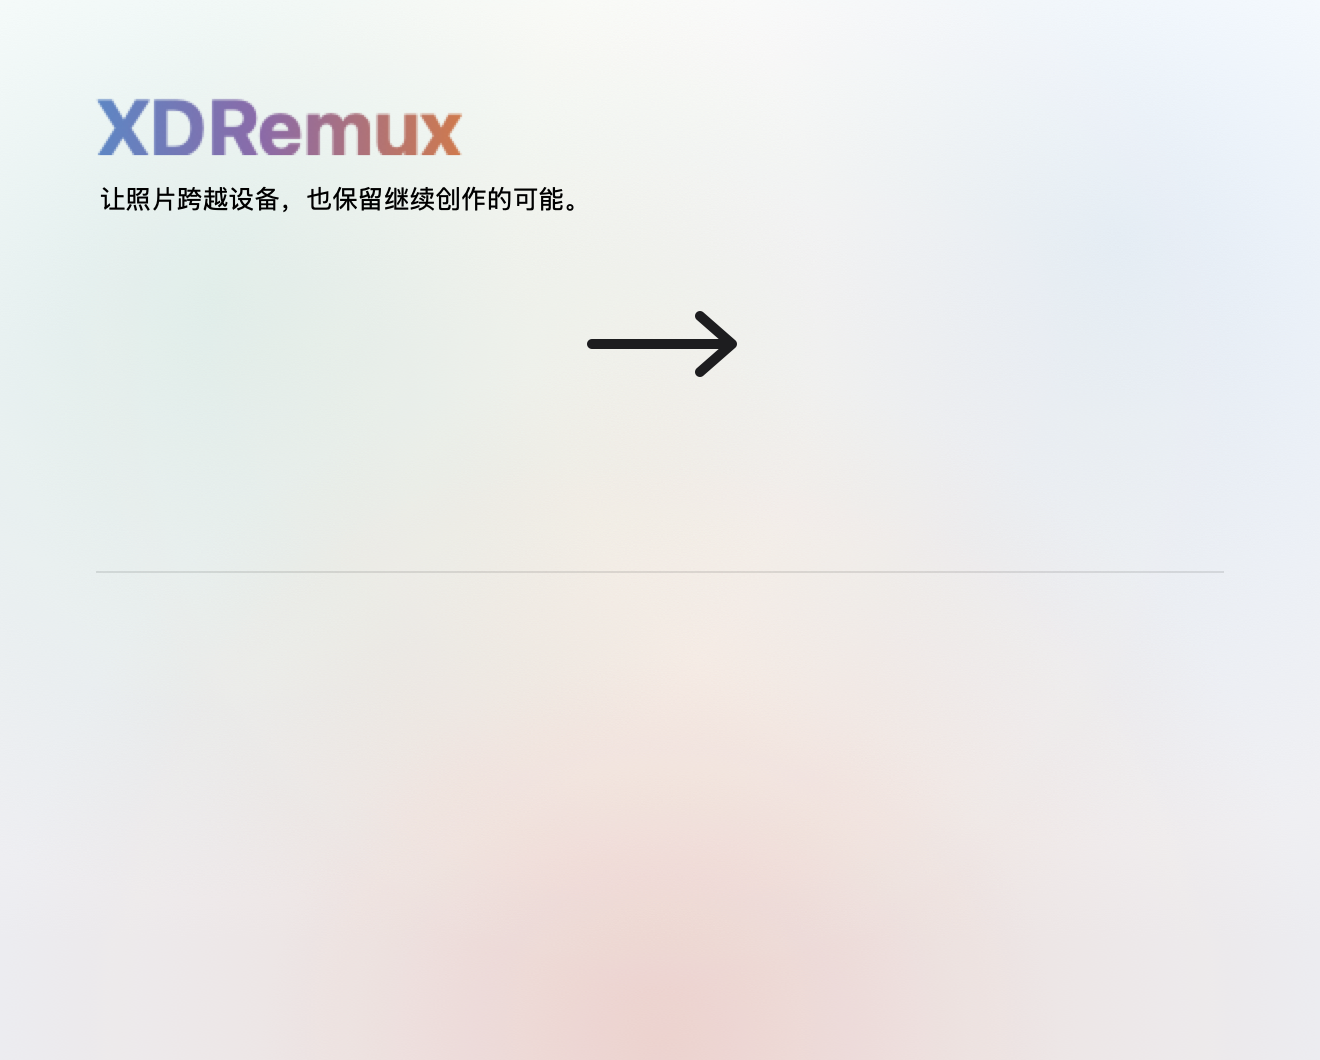
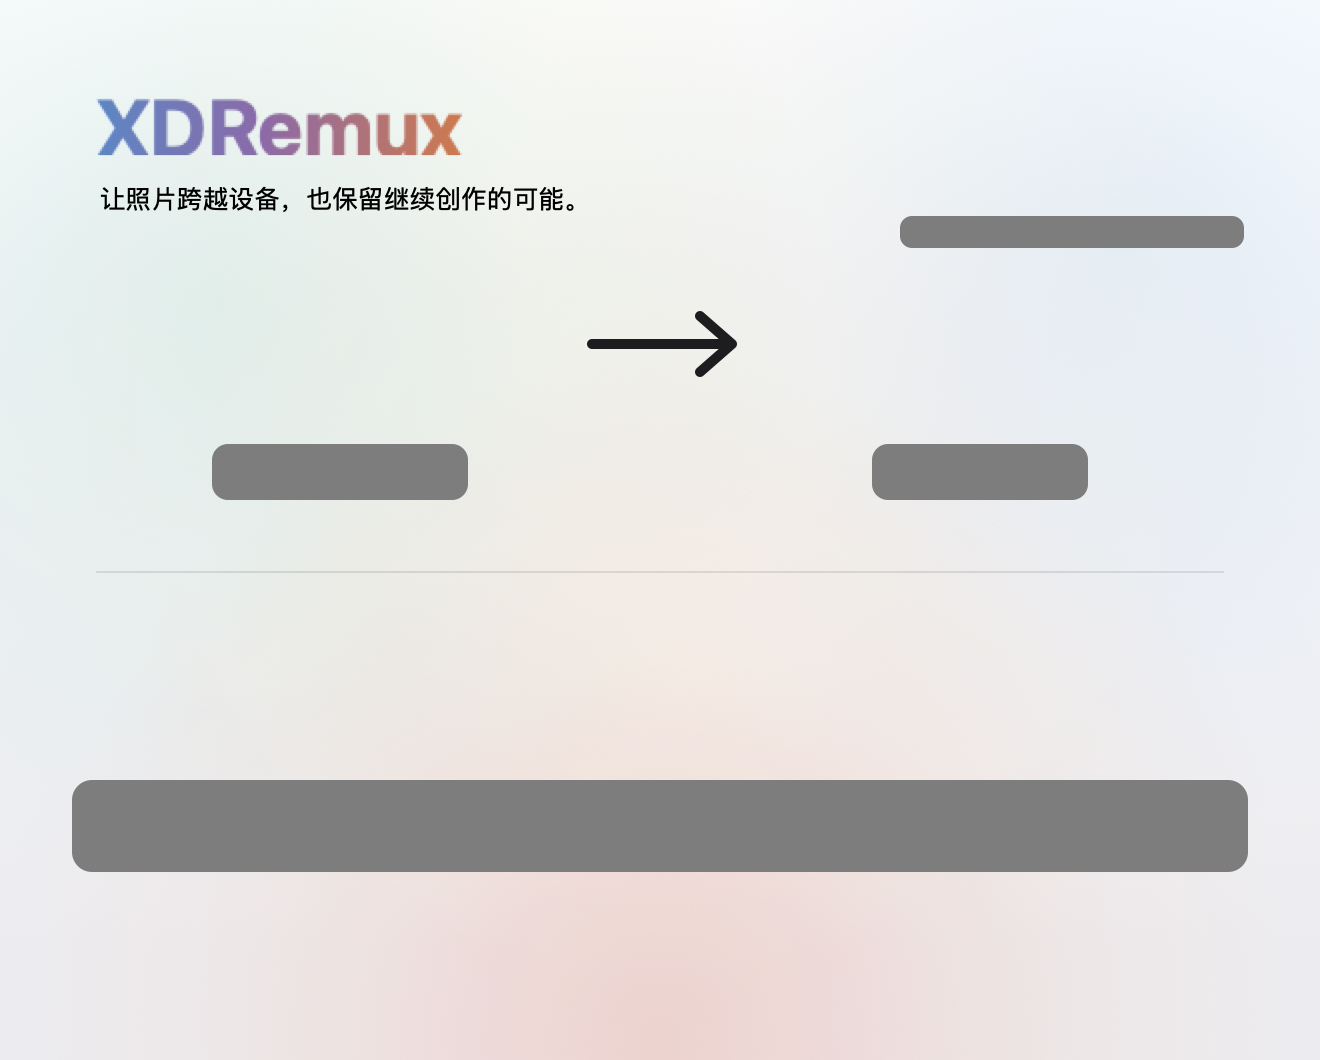
fix(macos): keep DMG labels readable and fail closed on layout
Icon decoration no longer aborts the packager under set -e, so a missing
custom icon warns and the build continues. Mid-gray mats behind Finder
labels keep names readable in dark appearance, bottom-row text is 12pt,
and package_release.sh uses XDREMUX_DMG_STRICT=1 like CI.

diff --git a/tools/apple/dmg/gen_background.swift b/tools/apple/dmg/gen_background.swift
@@ -10,9 +10,14 @@
 // drag arrow between the app icon and the Applications link, and a hairline
 // above the row of smaller items (licence files, privacy shortcut).
 //
-// Deliberately light, not the site's black: Finder draws icon labels in the
-// system appearance's colour, which is near-black in light mode and would
-// vanish on a dark picture.
+// The canvas stays light. Finder icon labels do not: they follow the system
+// appearance (near-black in light mode, near-white in dark mode), so a light
+// picture washes the names out in dark mode and a dark picture does the same
+// in light mode. Opaque mid-gray mats (#7d7d7d, about 4:1 against both) sit
+// under every label. Icon centres and the 96pt icon size match settings.py;
+// mats start just below each icon. The bottom mat is one shelf, because the
+// licence files and the privacy shortcut move sideways as the file count
+// changes.
 //
 // The picture is drawn 470 points tall like the window's content area, plus
 // 60 points of spare background underneath: Finder crops the picture at the
@@ -31,9 +36,14 @@ let width = 660.0
 let contentHeight = 470.0
 let height = contentHeight + 60.0
 
-// Icon centres from settings.py.
+// Icon centres and size from settings.py.
 let heroY = 172.0
+let smallY = 340.0
+let link = (x: 536.0, y: 58.0)
+let iconSize = 96.0
 let dividerY = 286.0
+// #7d7d7d is the gray where near-black and white labels both stay near 4:1.
+let labelPlate = "7d7d7d"
 
 // Site palette, light theme (xdremux.app CSS variables).
 let fg = "1d1d1f", fgDim = "6e6e73", teal = "0a8a76", blue = "0066cc"
@@ -113,6 +123,16 @@ func gradientText(_ ctx: CGContext, _ string: String, x: CGFloat, baseline y: CG
     ctx.restoreGState()
 }
 
+/// Opaque rounded rect under a Finder label. `top` is the label's top edge.
+func labelMat(_ ctx: CGContext, centerX: CGFloat, top: CGFloat, textWidth: CGFloat, lines: CGFloat) {
+    let w = textWidth + 28
+    let h = lines * 16 + 12
+    let rect = CGRect(x: centerX - w / 2, y: top, width: w, height: h)
+    ctx.addPath(CGPath(roundedRect: rect, cornerWidth: 8, cornerHeight: 8, transform: nil))
+    ctx.setFillColor(color(labelPlate))
+    ctx.fillPath()
+}
+
 func render(scale: Int) -> CGImage? {
     guard let ctx = CGContext(data: nil, width: Int(width) * scale, height: Int(height) * scale,
                               bitsPerComponent: 8, bytesPerRow: 0, space: sRGB,
@@ -137,6 +157,22 @@ func render(scale: Int) -> CGImage? {
     glow(ctx, center: CGPoint(x: 330, y: contentHeight + 40), radius: 330, warm2, alpha: 0.17)
     glow(ctx, center: CGPoint(x: 330, y: contentHeight + 60), radius: 200, warm3, alpha: 0.09)
     glow(ctx, center: CGPoint(x: 330, y: 190), radius: 320, warm1, alpha: 0.16)
+
+    // Label mats. Just below a 96pt icon whose centre is `iconY`.
+    // The website label has only the gap above the Applications icon (that
+    // icon starts at heroY - 48), so its mat is one line tall and stops there.
+    let belowIcon = iconSize / 2 + 2
+    labelMat(ctx, centerX: 170, top: heroY + belowIcon, textWidth: 100, lines: 1)   // XDRemux Flutter
+    labelMat(ctx, centerX: 490, top: heroY + belowIcon, textWidth: 80, lines: 1)    // Applications
+    let linkMat = CGRect(x: link.x - 86, y: link.y + iconSize / 2 + 2, width: 172, height: 16)
+    ctx.addPath(CGPath(roundedRect: linkMat, cornerWidth: 6, cornerHeight: 6, transform: nil))
+    ctx.setFillColor(color(labelPlate))
+    ctx.fillPath()
+    let shelfTop = smallY + belowIcon
+    let shelf = CGRect(x: 36, y: shelfTop, width: width - 72, height: 2 * 16 + 14)
+    ctx.addPath(CGPath(roundedRect: shelf, cornerWidth: 10, cornerHeight: 10, transform: nil))
+    ctx.setFillColor(color(labelPlate))
+    ctx.fillPath()
 
     // Wordmark and tagline, top-left.
     gradientText(ctx, "XDRemux", x: 48, baseline: 78, size: 40, weight: .bold,

diff --git a/tools/apple/dmg/settings.py b/tools/apple/dmg/settings.py
@@ -24,8 +24,9 @@ import os
 CONTENT = (660, 470)
 HERO_Y = 172
 SMALL_Y = 340
-# Wide enough that the two-line labels of the licence files and the privacy
-# shortcut do not touch; tightened only when four or more items are staged.
+# Wide enough that the privacy shortcut's name, at text_size 12, does not
+# touch its neighbour or the window edge. Tightened only when four or more
+# items are staged.
 SMALL_SPACING = 200
 # Website link, under the top-right corner, clear of the hero row. Far
 # enough from the edge for its label, even when Finder shows extensions.
@@ -85,6 +86,10 @@ for index, name in enumerate(extras):
 format = defines.get("format", "UDZO")
 window_rect = ((200, 120), (CONTENT[0], CONTENT[1] + TITLE_BAR))
 icon_size = 96.0
+# dmgbuild's default is 16pt. At that size the privacy shortcut's name
+# ("打开隐私与安全性 (Privacy & Security)", ~210pt wide at 12pt) runs into the
+# neighbouring licence file and off the right edge of the window.
+text_size = 12.0
 icon = volume_icon
 background = os.path.join(defines["assets"], "background.png")
 default_view = "icon-view"

diff --git a/docs/operations/releasing.md b/docs/operations/releasing.md
@@ -46,7 +46,7 @@ XDRemux-HarmonyOS-<tag>-unsigned.hap     （本地构建，见 §3.5）
 
 macOS / iOS 已纳入 CI；Windows ARM64 为实验性且非发布阻塞，x265 按 runner 实际 VS 版本选择 CMake 生成器。
 
-两个 macOS DMG（CI 的 Flutter 版、本机 `package_release.sh` 的原生版）的安装窗口都由 `tools/apple/dmg/make_dmg.sh` 生成：app → Applications 拖拽布局、浅色网格背景，许可证文件和「隐私与安全性」快捷入口排在窗口底部，快捷入口带“系统设置”图标（打包时从本机系统取，仓库不存 Apple 素材）。布局由 dmgbuild 直接写 `.DS_Store`，需要 Python ≥ 3.11（CI 固定 3.12；本机首次运行会装到 `~/.cache/xdremux/dmgbuild-venv`）。装不上时 CI 直接失败，本机退回无布局的普通镜像并告警。改窗口尺寸或图标位置要同时改 `settings.py` 与 `gen_background.swift`，再用 `swift tools/apple/dmg/gen_background.swift` 重新生成背景。
+两个 macOS DMG（CI 的 Flutter 版、本机 `package_release.sh` 的原生版）的安装窗口都由 `tools/apple/dmg/make_dmg.sh` 生成：app → Applications 拖拽布局、浅色网格背景，图标名字底下有中灰底（Finder 的标签颜色随系统外观变，纯浅或纯深的底都会让其中一种外观看不清），许可证文件和「隐私与安全性」快捷入口排在窗口底部，快捷入口带“系统设置”图标（打包时从本机系统取，仓库不存 Apple 素材）。布局由 dmgbuild 直接写 `.DS_Store`，需要 Python ≥ 3.11（CI 固定 3.12；本机首次运行会装到 `~/.cache/xdremux/dmgbuild-venv`）。装不上时 CI 和 `package_release.sh` 都直接失败（两者都设 `XDREMUX_DMG_STRICT=1`），不会签一张没有布局的镜像。改窗口尺寸或图标位置要同时改 `settings.py` 与 `gen_background.swift`，再用 `swift tools/apple/dmg/gen_background.swift` 重新生成背景。
 
 `publish` 要求 **windows / android / macos / ios / linux 全部成功**，并额外校验各类产物文件都已落地，缺任何一个都不创建 Release（Windows ARM64 因 `continue-on-error` 不参与 gate）。如果 macOS/iOS 因托管 runner 容量被取消，tag 会存在但没有 Release：先重跑失败 job，再 `Re-run all jobs`（被 `needs` 跳过的 publish 不会被“重跑失败 job”带走）。
 

diff --git a/apps/apple/README.md b/apps/apple/README.md
@@ -186,7 +186,8 @@ macOS signing & notarization (`XDREMUX_MACOS_SIGN=auto` by default):
   (omitted from notarized DMGs).
 - The DMG opens on an installer window (app, an arrow, the Applications link, the licence files
   and the shortcut in a row underneath) built by `tools/apple/dmg/make_dmg.sh`; it needs Python
-  >= 3.11 for dmgbuild and warns, then falls back to a plain image, when that is missing.
+  >= 3.11 for dmgbuild. `package_release.sh` sets `XDREMUX_DMG_STRICT=1`, so a missing dmgbuild
+  fails the package instead of signing a plain image.
 
 The version comes from `CFBundleShortVersionString` in `project.yml`; bump it
 (in both targets) and `CURRENT_PROJECT_VERSION`, the build number shared by the app and the Share
